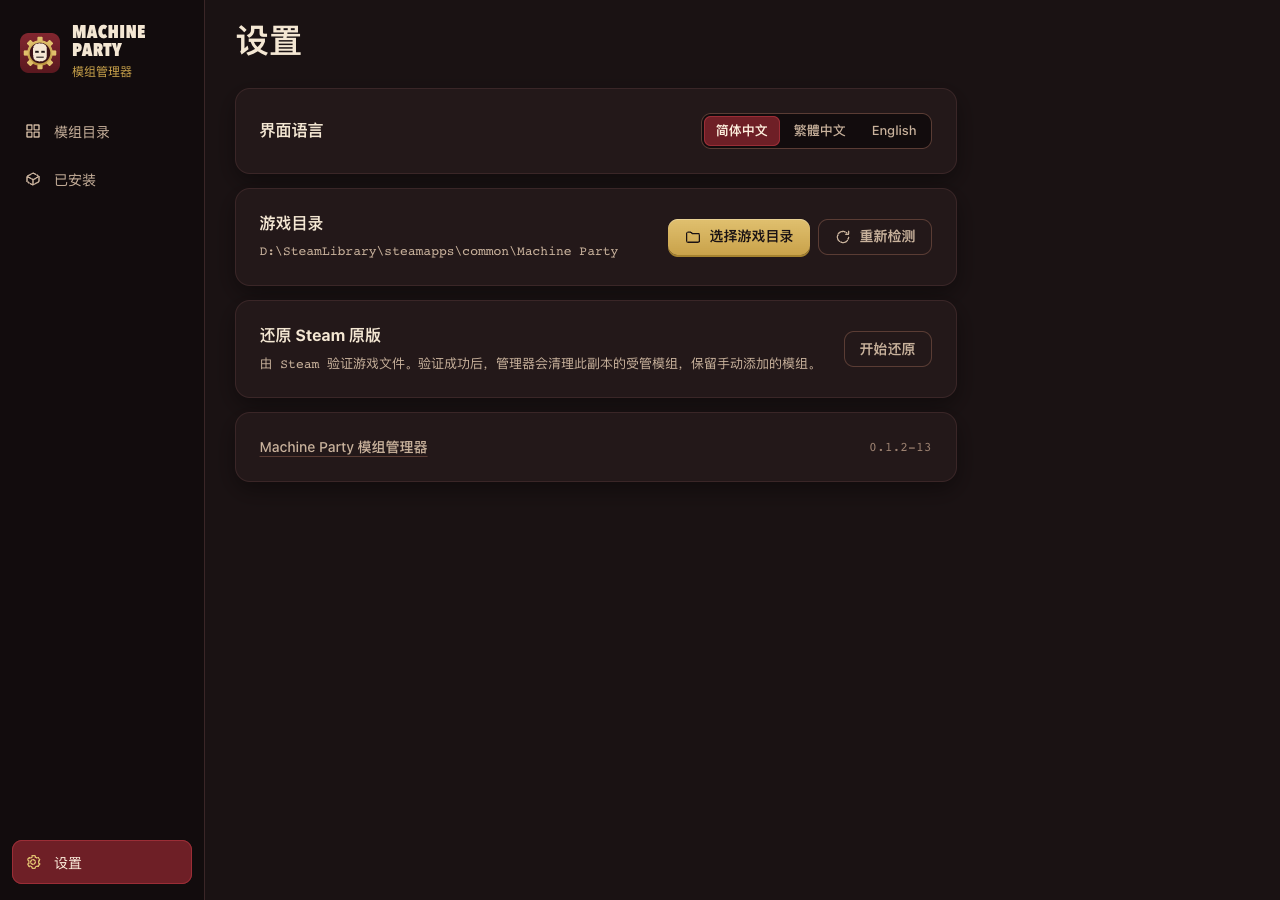
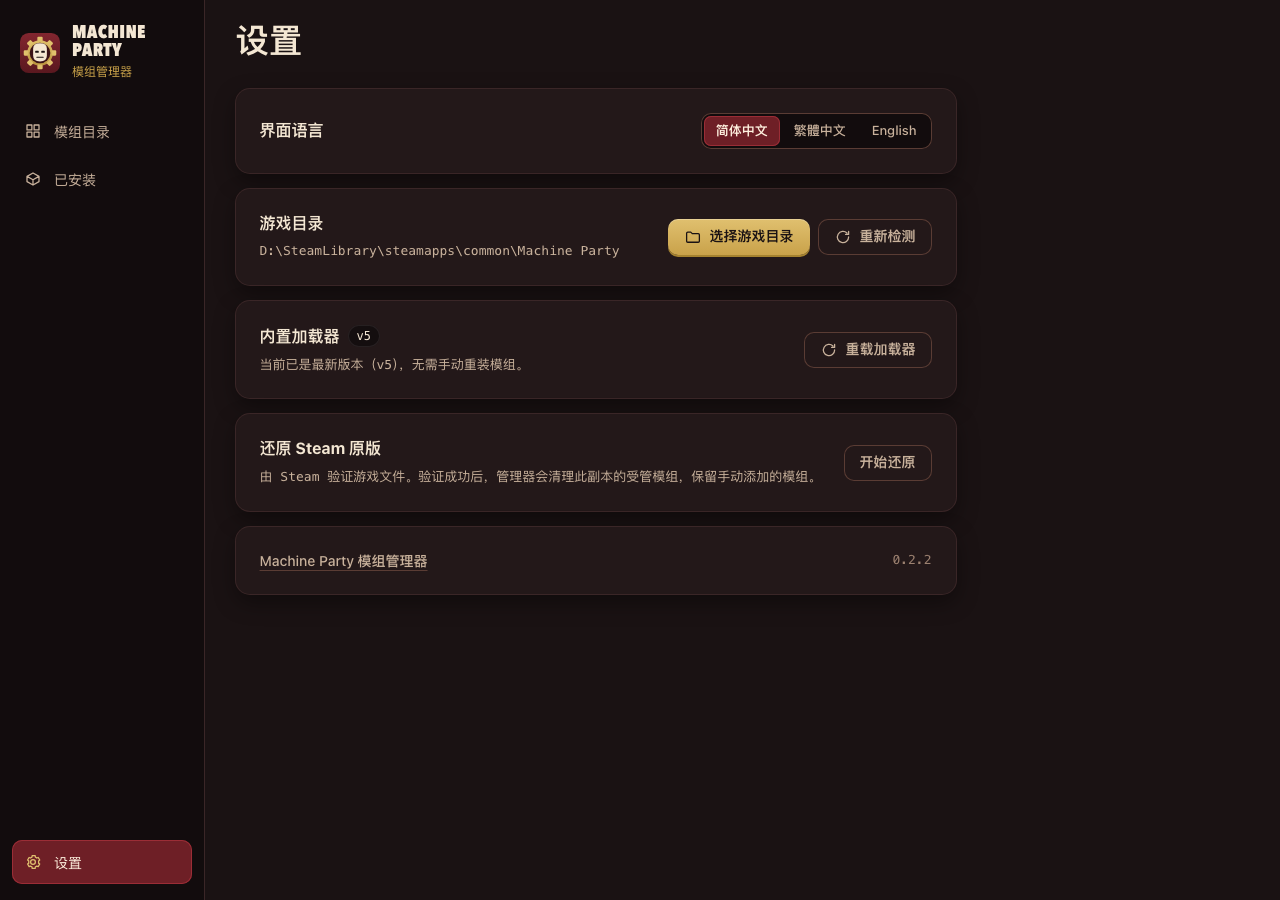
Update v0.2.2 docs and three-language Settings screenshots

diff --git a/docs/readme/README.zh-TW.md b/docs/readme/README.zh-TW.md
@@ -45,7 +45,7 @@ Steam 目錄自動偵測 · 離線快取與還原 · 简体中文 / 繁體中文
 
 | 平台 | 架構 | 下載 | 說明 |
 | --- | --- | --- | --- |
-| Windows | x64 | [正式版 v0.2.0（`setup.exe`）](https://machineparty.ailaogong.men/v1/app-downloads/0.2.0/setup.exe) | NSIS 安裝程式，支援簽章應用內更新 |
+| Windows | x64 | [正式版 v0.2.2（`setup.exe`）](https://machineparty.ailaogong.men/v1/app-downloads/0.2.2/setup.exe) | NSIS 安裝程式，支援簽章應用內更新 |
 
 下載並執行 Windows x64 安裝程式。
 
@@ -68,7 +68,7 @@ Steam 目錄自動偵測 · 離線快取與還原 · 简体中文 / 繁體中文
 | --- | --- |
 | ![設定頁](../images/screenshot-settings.zh-TW.png) | ![應用內更新提示](../images/screenshot-update.zh-TW.png) |
 
-**v0.2.0** · 設定 → 還原 Steam 原版
+**v0.2.2** · 設定 → 內建載入器（v5，自動升級與重載載入器）· 還原 Steam 原版
 
 更新提示截圖示範從 0.1.2-11 到 0.1.2-12 的模擬升級。
 
@@ -89,7 +89,7 @@ Steam 目錄自動偵測 · 離線快取與還原 · 简体中文 / 繁體中文
 
 ## 更新紀錄
 
-**v0.2.0** · 發布適用於《機械派對》v2.1.2 的 Windows x64 正式版。可安裝與更新目錄中的八個模組，也可在設定中還原 Steam 原版。 [完整更新紀錄](../zh-TW/CHANGELOG.md)。
+**v0.2.2** · 內建模組載入器升級至 v5，自動排開大廳重疊的模組按鈕（如 MachineParty+ 語音按鈕與房間機器人）且不影響原版按鈕；設定頁新增載入器版本顯示與**重載載入器**按鈕，應用程式更新後會在遊戲關閉時自動升級載入器。 [完整更新紀錄](../zh-TW/CHANGELOG.md)。
 
 ## 文件
 

diff --git a/README.md b/README.md
@@ -45,7 +45,7 @@ Download builds directly from the project mirror below or from [GitHub Releases]
 
 | Platform | Architecture | Download | Notes |
 | --- | --- | --- | --- |
-| Windows | x64 | [Stable v0.2.0 (`setup.exe`)](https://machineparty.ailaogong.men/v1/app-downloads/0.2.0/setup.exe) | NSIS installer, signed in-app updates |
+| Windows | x64 | [Stable v0.2.2 (`setup.exe`)](https://machineparty.ailaogong.men/v1/app-downloads/0.2.2/setup.exe) | NSIS installer, signed in-app updates |
 
 Run the Windows x64 NSIS installer.
 
@@ -68,7 +68,7 @@ Machine Party is available on Windows. macOS support is planned for a future rel
 | --- | --- |
 | ![Settings](docs/images/screenshot-settings.png) | ![In-app update prompt](docs/images/screenshot-update.png) |
 
-**v0.2.0** · Settings → Restore the Steam original
+**v0.2.2** · Settings → Built-in loader (v5, auto-upgrade & Reload loader) · Restore the Steam original
 
 The update prompt illustrates a simulated upgrade from 0.1.2-11 to 0.1.2-12.
 
@@ -89,7 +89,7 @@ See [candidate mods and inclusion rules](docs/en/catalog/mods.md) for acceptance
 
 ## Release notes
 
-**v0.2.0** · Windows x64 stable release for Machine Party v2.1.2. Install and update the eight catalogued mods, or use Settings to restore the Steam original. [Full changelog](CHANGELOG.md).
+**v0.2.2** · Built-in mod loader v5 automatically separates overlapping lobby mod buttons (such as MachineParty+ voice controls and Lobby Bots) without touching vanilla buttons. Settings now displays the loader version, supports one-click **Reload loader**, and automatically upgrades outdated loaders after app updates once the game is closed. [Full changelog](CHANGELOG.md).
 
 ## Documentation
 

diff --git a/docs/readme/README.zh-CN.md b/docs/readme/README.zh-CN.md
@@ -45,7 +45,7 @@ Steam 目录自动检测 · 离线缓存与还原 · 简体中文 / 繁體中文
 
 | 平台 | 架构 | 下载 | 说明 |
 | --- | --- | --- | --- |
-| Windows | x64 | [正式版 v0.2.0（`setup.exe`）](https://machineparty.ailaogong.men/v1/app-downloads/0.2.0/setup.exe) | NSIS 安装包，支持签名应用内更新 |
+| Windows | x64 | [正式版 v0.2.2（`setup.exe`）](https://machineparty.ailaogong.men/v1/app-downloads/0.2.2/setup.exe) | NSIS 安装包，支持签名应用内更新 |
 
 下载并运行 Windows x64 安装程序。
 
@@ -68,7 +68,7 @@ Steam 目录自动检测 · 离线缓存与还原 · 简体中文 / 繁體中文
 | --- | --- |
 | ![设置页](../images/screenshot-settings.zh-CN.png) | ![应用内更新提示](../images/screenshot-update.zh-CN.png) |
 
-**v0.2.0** · 设置 → 还原 Steam 原版
+**v0.2.2** · 设置 → 内置加载器（v5，自动升级与重载加载器）· 还原 Steam 原版
 
 更新提示截图演示从 0.1.2-11 到 0.1.2-12 的模拟升级。
 
@@ -89,7 +89,7 @@ Steam 目录自动检测 · 离线缓存与还原 · 简体中文 / 繁體中文
 
 ## 更新记录
 
-**v0.2.0** · 发布适用于《机械派对》v2.1.2 的 Windows x64 正式版。可安装和更新目录中的八个模组，也可在设置中还原 Steam 原版。 [完整更新记录](../zh-CN/CHANGELOG.md)。
+**v0.2.2** · 内置模组加载器升级至 v5，自动排开大厅重叠的模组按钮（如 MachineParty+ 语音按钮与房间机器人）且不影响原版按钮；设置页新增加载器版本显示与**重载加载器**按钮，应用更新后会在游戏关闭时自动升级加载器。 [完整更新记录](../zh-CN/CHANGELOG.md)。
 
 ## 文档
 

diff --git a/SUPPORT.md b/SUPPORT.md
@@ -13,6 +13,10 @@ Save your progress and choose **Close game and continue**, or cancel. If the gam
 
 ![When the game is running](docs/images/screenshot-close-game.png)
 
+## Built-in loader auto-upgrade & reload (Windows 0.2.2)
+
+When a manager update includes a newer built-in loader (for example `v4 → v5`), opening the manager automatically upgrades `Machine Party.pck` as soon as the game is closed — without reinstalling mods or touching external `MachinePartyModLoader.exe` setups. You can also check the current loader version or trigger a clean rewrite anytime under **Settings → Built-in loader → Reload loader**.
+
 ## Restore the Steam original (Windows 0.2.0)
 
 In **Settings → Restore the Steam original**, check the selected game folder and choose **Start restore**. Save your progress before allowing the manager to close the game. Confirm verification in Steam and keep the manager open. Returning to the manager does not finish verification. After Steam reports success, the manager checks the original game fingerprint and clears recorded mods. If you stop waiting, Steam can continue independently. Unrecognized files or an unsupported Steam build require inspection. Backups are retained under the app configuration directory in `backups/<copy>/_steam_restore/`.

diff --git a/docs/zh-TW/SUPPORT.md b/docs/zh-TW/SUPPORT.md
@@ -13,6 +13,10 @@
 
 ![遊戲正在執行時](../images/screenshot-close-game.zh-TW.png)
 
+## 內建載入器自動升級與重載（Windows 0.2.2）
+
+當管理器更新包含新版內建載入器（例如 `v4 → v5`）時，只要遊戲未執行，打開管理器就會自動升級 `Machine Party.pck`，無需手動重裝模組，也不會改動外部 `MachinePartyModLoader.exe`。你也可以隨時在**設定 → 內建載入器**檢視目前版本，或點選**重載載入器**執行乾淨重寫。
+
 ## 還原 Steam 原版（Windows 0.2.0）
 
 在**設定 → 還原 Steam 原版**核對遊戲目錄，選擇**開始還原**。若遊戲正在執行，請先存檔，再確認關閉。在 Steam 中確認驗證，並保持管理器開啟。切回管理器時仍會繼續等待。Steam 回報成功後，管理器會校驗原版遊戲指紋，再清理有安裝紀錄的模組。停止等待後，Steam 可繼續驗證。遇到未知檔案或不支援的遊戲版本時，清理會停止。備份保存在應用程式設定目錄的 `backups/<副本>/_steam_restore/`。

diff --git a/docs/zh-CN/SUPPORT.md b/docs/zh-CN/SUPPORT.md
@@ -13,6 +13,10 @@
 
 ![游戏正在运行时](../images/screenshot-close-game.zh-CN.png)
 
+## 内置加载器自动升级与重载（Windows 0.2.2）
+
+当管理器更新包含新版内置加载器（例如 `v4 → v5`）时，只要游戏未运行，打开管理器就会自动升级 `Machine Party.pck`，无需手动重装模组，也不会改动外部 `MachinePartyModLoader.exe`。你也可以随时在**设置 → 内置加载器**查看当前版本，或点击**重载加载器**执行干净重写。
+
 ## 还原 Steam 原版（Windows 0.2.0）
 
 在**设置 → 还原 Steam 原版**核对游戏目录，选择**开始还原**。如游戏正在运行，请先存档，再确认关闭。在 Steam 中确认验证，并保持管理器开启。切回管理器时仍会继续等待。Steam 报告成功后，管理器会校验原版游戏指纹，再清理有安装记录的模组。停止等待后，Steam 可继续验证。遇到未知文件或不支持的游戏版本时，清理会停止。备份保存在应用配置目录的 `backups/<副本>/_steam_restore/`。
